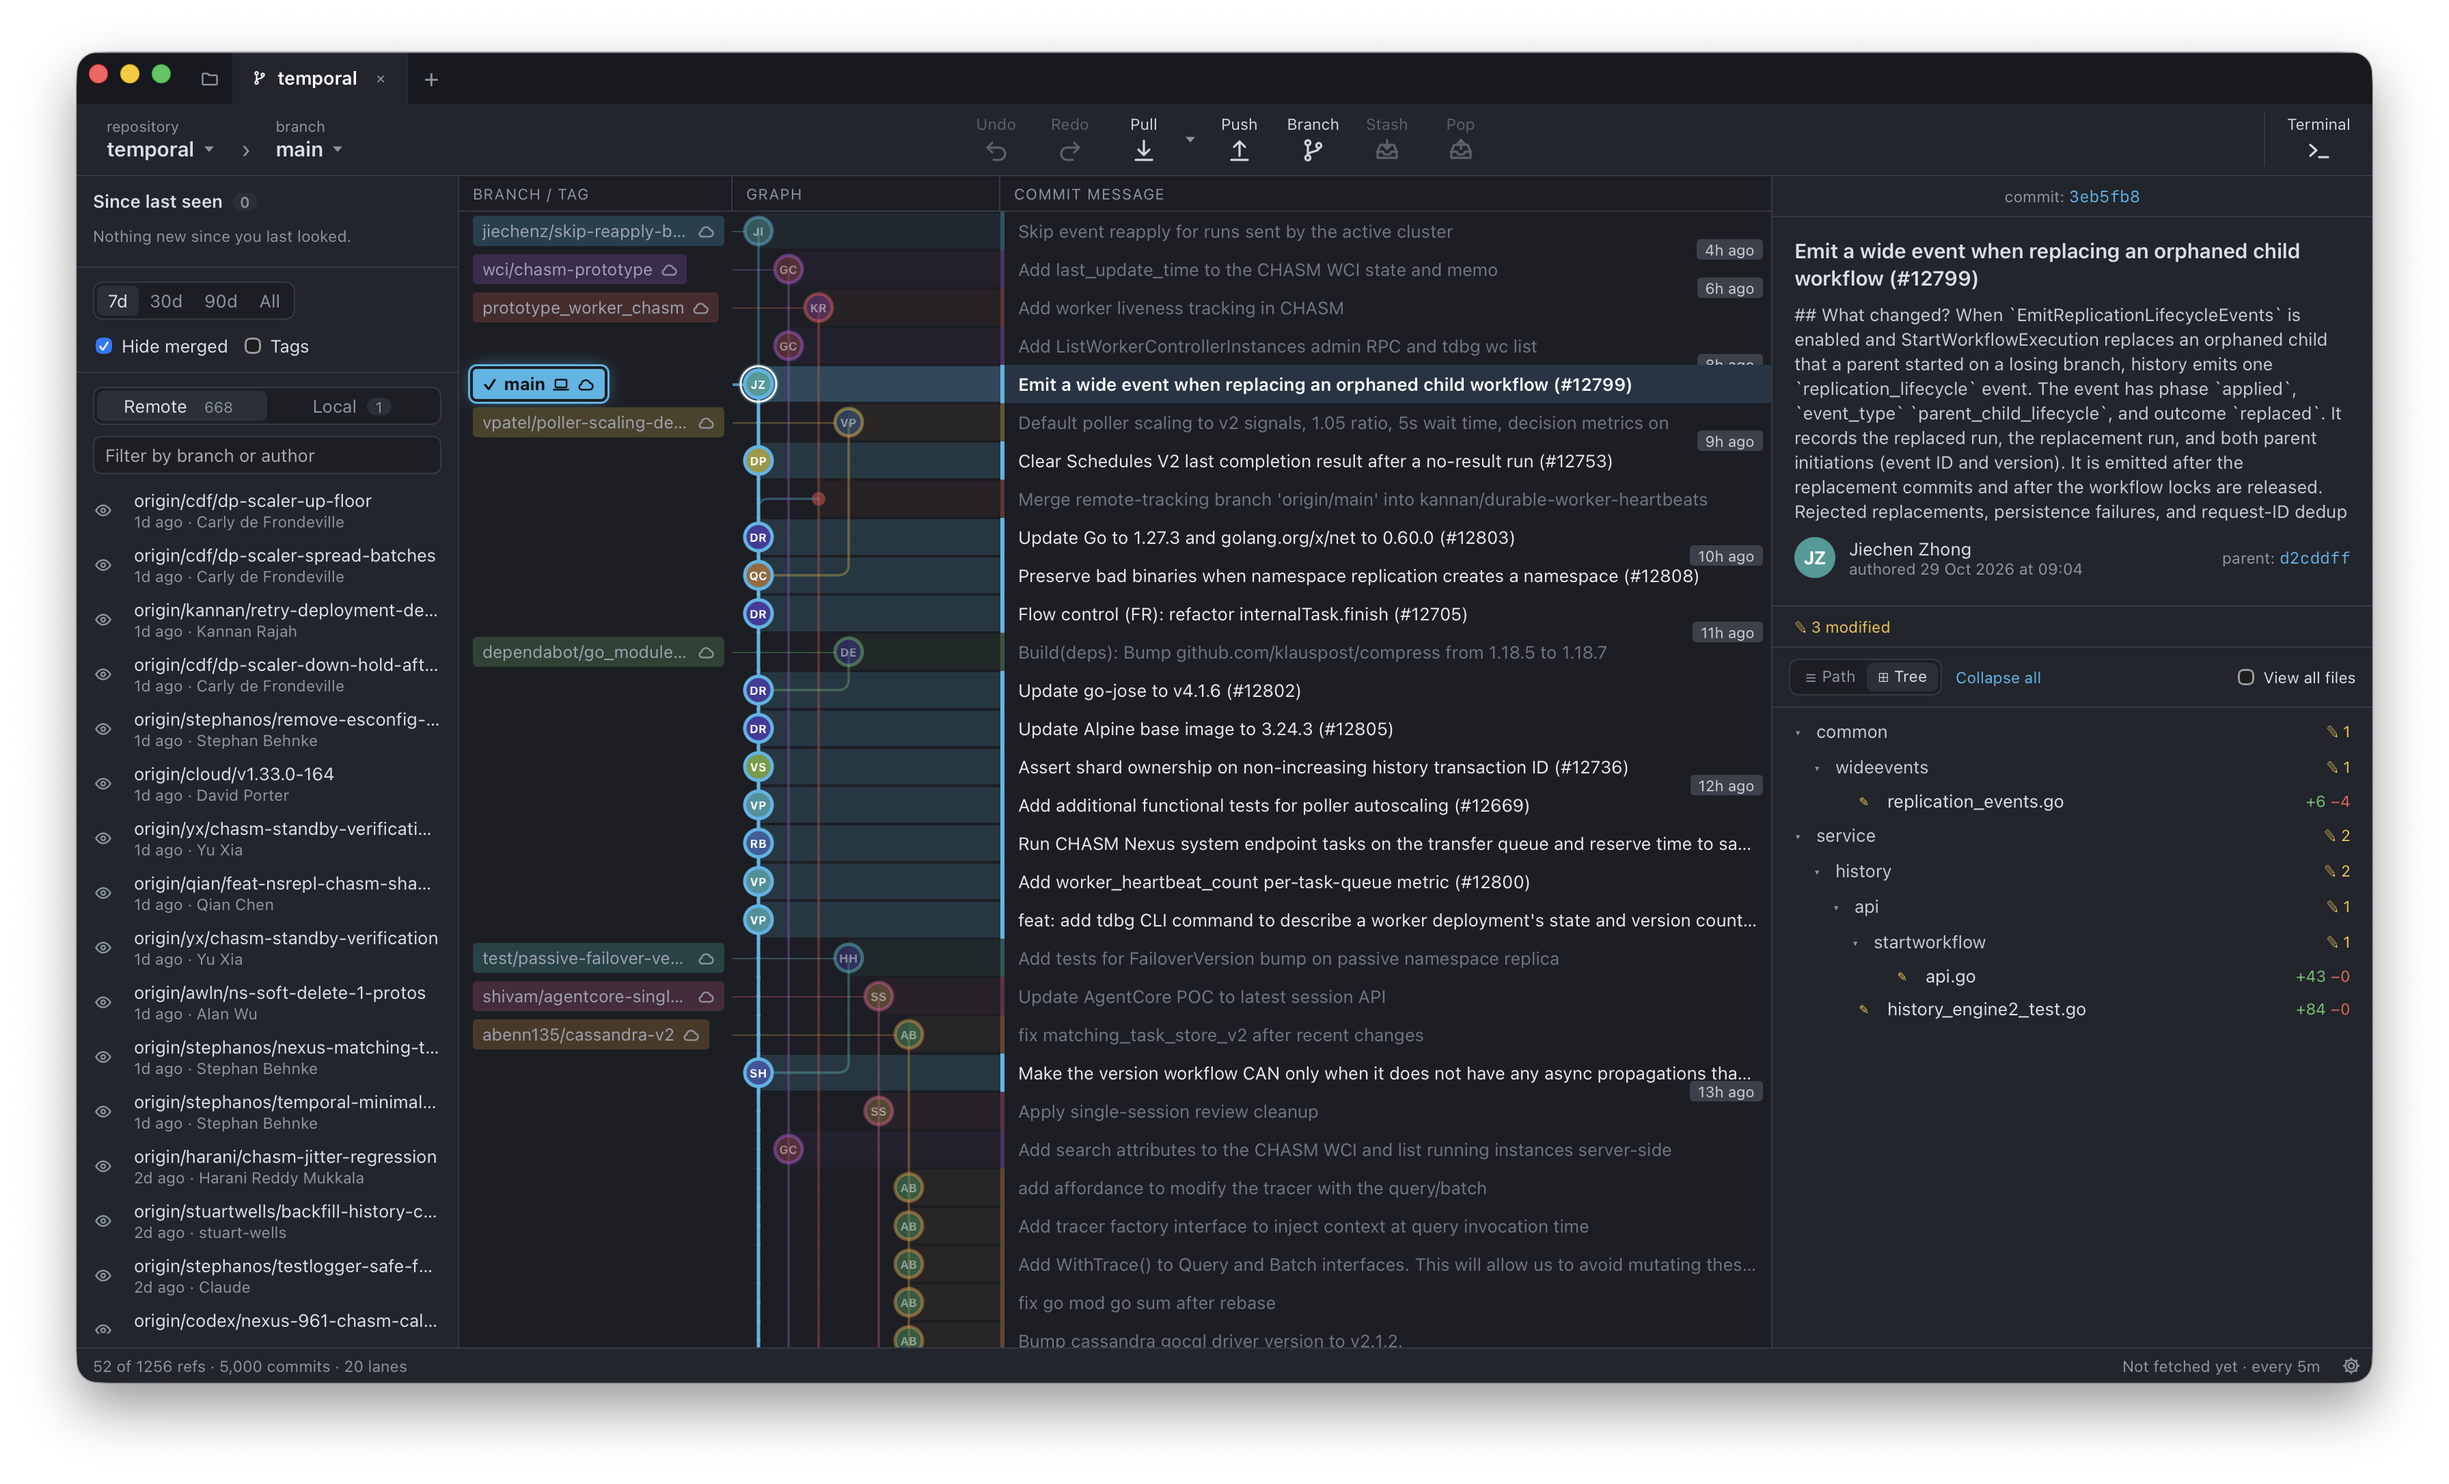
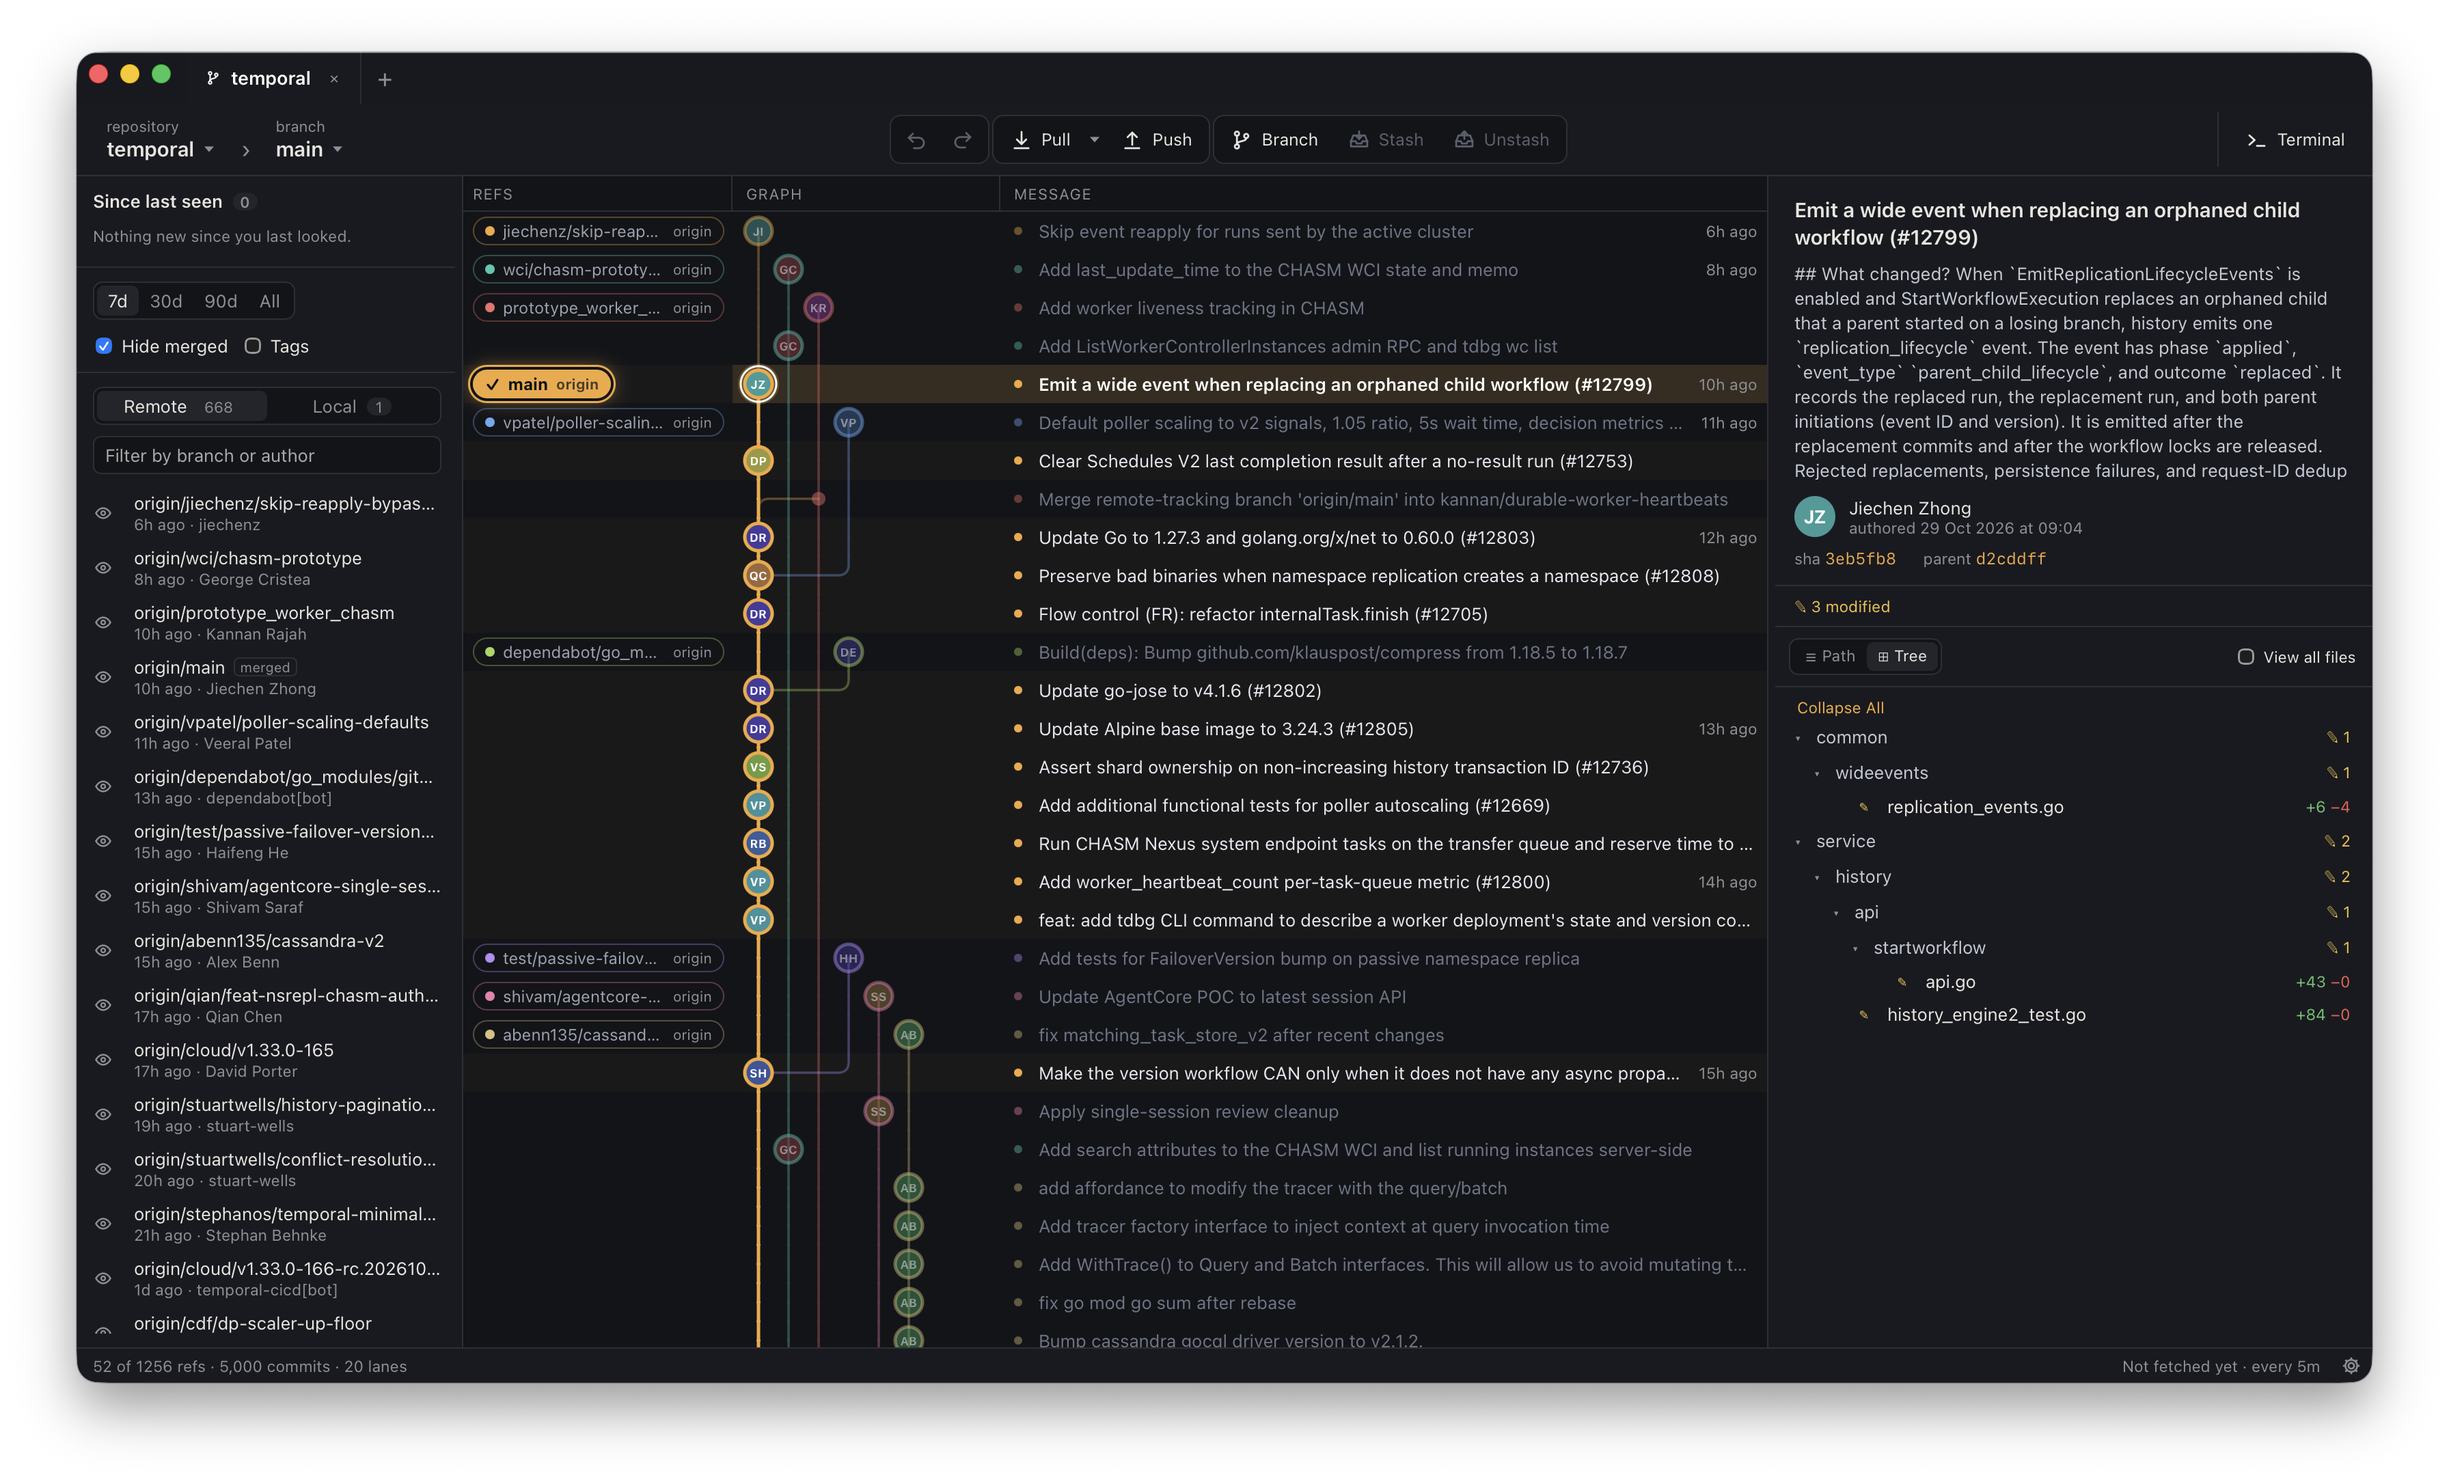
New screenshots, and a .dmg build that does not hang on Finder
The README shows frk's current look on temporalio/temporal: the graph
up top and the file view under Review. Wording follows the UI
(Uncommitted changes, unstash).

make dmg now sets CI=true so Tauri skips laying out the .dmg window
through Finder, which was leaving the temporary image busy and failing
the bundle step.

diff --git a/README.md b/README.md
@@ -16,7 +16,7 @@ A fast, lightweight desktop Git client for teams that push a lot of branches.
 
 <br />
 
-<img src="docs/screenshot.png" alt="frk open on the temporalio/temporal repository: 52 active branches drawn as lanes in one graph with main highlighted, the branch list and filters on the left, and the selected commit’s message and changed files on the right" width="100%" />
+<img src="docs/screenshot.png" alt="frk open on the temporalio/temporal repository: active branches drawn as lanes in one graph with main and its history highlighted, the branch list and filters on the left, and the selected commit’s message and changed files on the right" width="100%" />
 
 </div>
 
@@ -53,12 +53,16 @@ system webview instead of bundling a browser.
 - 🖱 **Right-click everything**: checkout, branch, reset, revert, rename,
   delete, tag, copy links, push and open a pull request.
 - ↩ **Undo / Redo** for checkout, branch, reset, tag, stash and commit.
-- 🗂 **Repository tabs**, a toolbar for pull / push / stash / pop, and a
+- 🗂 **Repository tabs**, a toolbar for pull / push / stash / unstash, and a
   Terminal button.
 
 **Review**
 - 🔍 **Full-page file view**: unified or split diffs with syntax highlighting
   and word-level changes, whole-file view, blame, and history across renames.
+
+<p align="center">
+  <img src="docs/screenshot-diff.png" alt="frk’s file view: a syntax-highlighted unified diff of a Go test file from temporalio/temporal, with Diff, File, Blame and History tabs above it and the commit’s changed files listed on the right" width="100%" />
+</p>
 
 ## Install
 
@@ -93,7 +97,7 @@ make dev REPO=~/code/my-repo
 | Select a commit | click, or <kbd>↑</kbd> / <kbd>↓</kbd> in the graph |
 | Act on a commit or branch | right-click it, in the graph or the sidebar |
 | Open a file | click it in the commit panel; <kbd>Esc</kbd> closes it |
-| Commit | select the `// WIP` row, stage, write a summary, <kbd>⌘</kbd> <kbd>↩</kbd> |
+| Commit | select the **Uncommitted changes** row, stage, write a summary, <kbd>⌘</kbd> <kbd>↩</kbd> |
 | Resize columns | drag the column edges; double-click to reset |
 | Settings | the ⚙ in the bottom-right corner |
 

diff --git a/docs/design.md b/docs/design.md
@@ -11,7 +11,7 @@ crates/frk-core   everything that talks to git: refs, the commit walk and lane
 src-tauri         Tauri commands over frk-core, holding one session per
                   window; git work runs off the main thread
 src               React UI: the graph (canvas + virtual list), sidebar,
-                  commit / WIP panels, file view, toolbar
+                  commit and working-tree panels, file view, toolbar
 ```
 
 All git access goes through the git CLI rather than a library binding, so the
